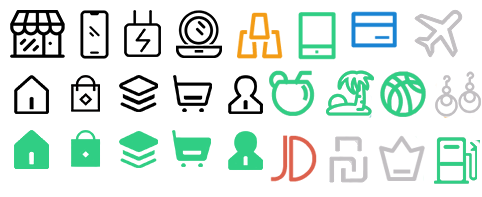
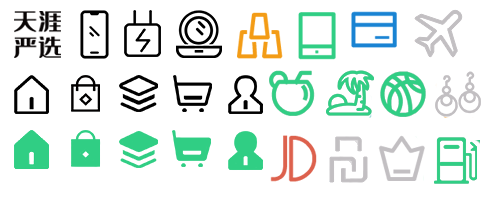
网易严选

Changed region(s): [[0.0, 0.0305, 0.1556, 0.3046]]

diff --git a/cocogcMall/src/components/home/shortcut.vue b/cocogcMall/src/components/home/shortcut.vue
@@ -12,11 +12,12 @@
                                     <p class="home-qName">{{quickItem.name}}</p>
                                 </router-link> -->
 
-                        <router-link :to="{path:'/goodsList',query:{quickItem:quickItem.id}}" class="home-quickA" v-for="(quickItem,quickIndex) in item" :key="quickIndex">
+                        <div class="home-quickA" v-for="(quickItem,quickIndex) in item" :key="quickIndex" @click="jumpPage(quickItem)">
                             <p class="navImg home-qImg" :class="quickItem.imgBg">
                             </p>
                             <p class="home-qName">{{quickItem.name}}</p>
-                        </router-link>
+                        </div>
+
                     </div>
                 </div>
                 <div class="swiper-pagination"></div>
@@ -32,7 +33,7 @@ export default {
         return {
             quickList: [
                 [
-                    { name: "日用超市", imgBg: 'home-qImg01', id: '1620' },
+                    { name: "天涯严选", imgBg: 'home-qImg01', id: '18608' },
                     { name: "手机数码", imgBg: 'home-qImg02', id: '9987' },
                     { name: "家用电器", imgBg: 'home-qImg03', id: '737' },
                     { name: "美妆护肤", imgBg: 'home-qImg04', id: '1316' },
@@ -56,7 +57,12 @@ export default {
         })
     },
     methods: {
-
+        jumpPage(quickItem){
+            if(quickItem.id=='18608'){
+                return false;
+            }
+            this.$router.push({path:'/goodsList',query:{quickItem:quickItem.id}})
+        }
     }
 
 }
